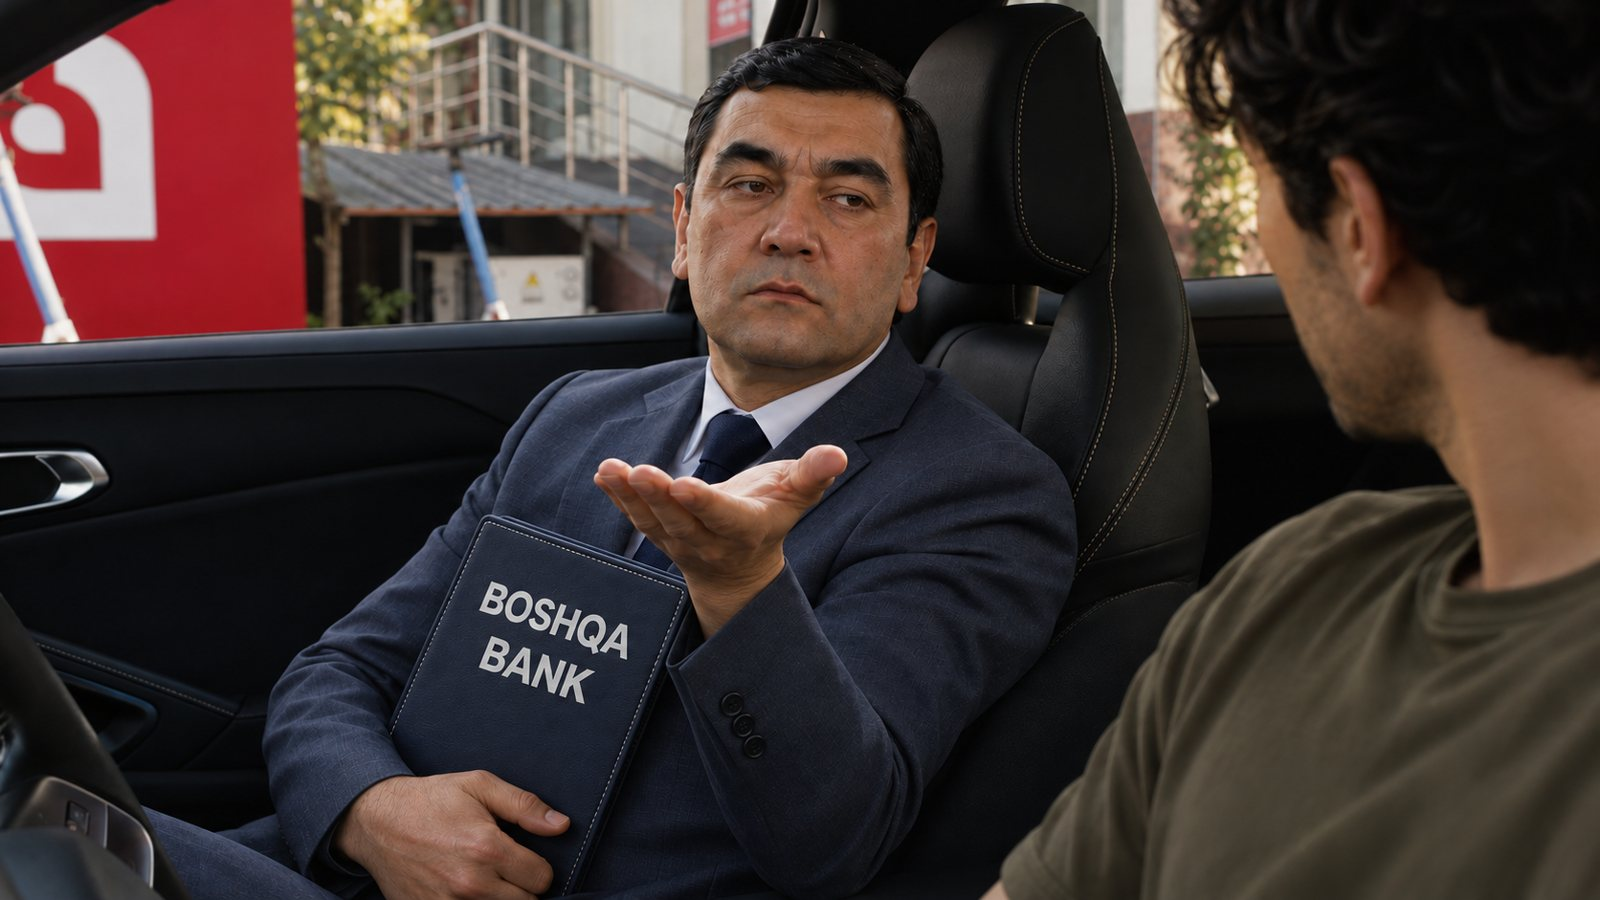
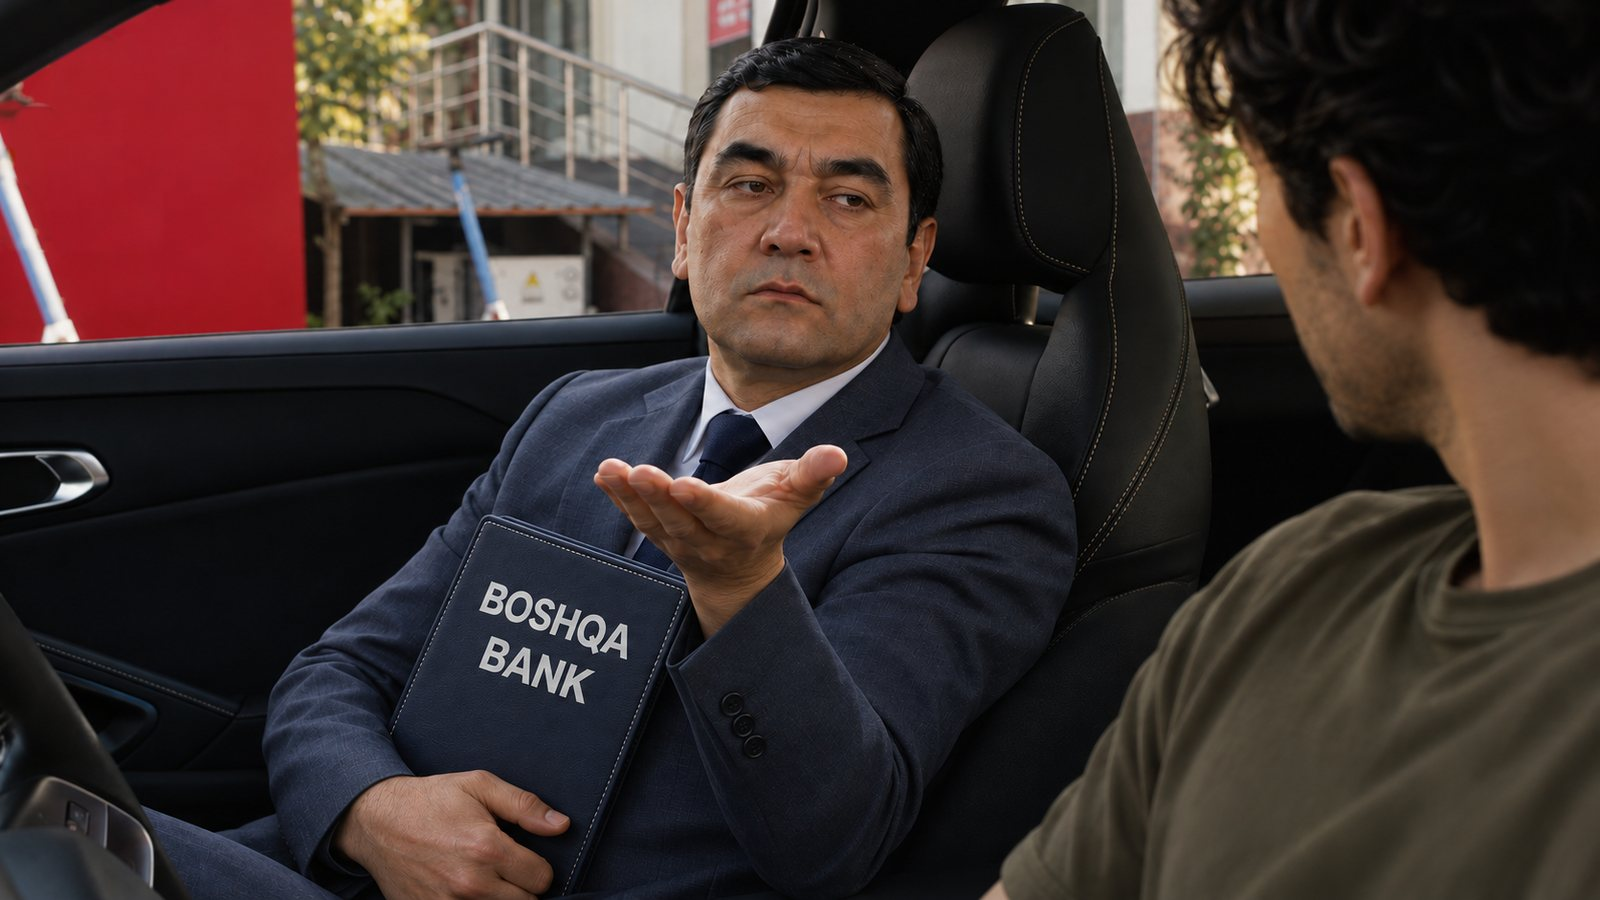
Agrobank: убран логотип с вывески за окном машины (кадр 08)
Заменены assets/r1_08_xira_reverse.jpg (фон титула «Xira») и
assets/r1s_08_xira_reverse_simple.jpg (слайд «Машина · Yana»).
К ссылкам добавлен ?v=2, чтобы браузеры не показывали старую версию.

Claude-Session: https://claude.ai/code/session_01XP5vXhmmUk3Qh1XiU6XY23

Changed region(s): [[0.0, 0.0311, 0.125, 0.28]]

diff --git a/FCB-Agrobank/index.html b/FCB-Agrobank/index.html
@@ -103,7 +103,7 @@ requestAnimationFrame(f)}f();
 
 </section>
 <section id="r1-title" data-transition="push" style="background:#00502A;color:#12211A;font-family:'Agrofont', Verdana, sans-serif;display:flex;flex-direction:column;padding:96px">
-<img src="assets/r1_08_xira_reverse.jpg" alt="" style="position:absolute;left:0;top:0;width:1920px;height:1080px;object-fit:cover"><div style="position:absolute;left:0;top:0;width:1920px;height:1080px;background:linear-gradient(90deg, rgba(0,60,30,0.92) 0%, rgba(0,90,45,0.7) 42%, rgba(0,90,45,0.15) 75%)"></div><img src="assets/grain.png" alt="" style="position:absolute;left:0;top:0;width:1920px;height:1080px;object-fit:cover;mix-blend-mode:overlay;opacity:0.22"><p style="position:absolute;left:96px;top:404px;width:1000px;font-family:'Agrofont Bold', Verdana, sans-serif;font-size:24px;letter-spacing:2px;text-transform:uppercase;color:#CFF5E0">Ролик 1</p><h1 style="position:absolute;left:96px;top:448px;width:1100px;font-family:'Agrofont Expanded', Verdana, sans-serif;font-size:120px;font-weight:700;line-height:1.05;color:#FFFFFF;text-align:left">Xira</h1><p data-build-in="fade" style="position:absolute;left:96px;top:720px;width:760px;font-family:'Agrofont', Verdana, sans-serif;font-size:32px;line-height:1.45;color:#E9F2EE">Рефинансирование ипотеки. Хира требует платёж с утра до вечера, пока герой не скажет «Bo‘ldi!».</p>
+<img src="assets/r1_08_xira_reverse.jpg?v=2" alt="" style="position:absolute;left:0;top:0;width:1920px;height:1080px;object-fit:cover"><div style="position:absolute;left:0;top:0;width:1920px;height:1080px;background:linear-gradient(90deg, rgba(0,60,30,0.92) 0%, rgba(0,90,45,0.7) 42%, rgba(0,90,45,0.15) 75%)"></div><img src="assets/grain.png" alt="" style="position:absolute;left:0;top:0;width:1920px;height:1080px;object-fit:cover;mix-blend-mode:overlay;opacity:0.22"><p style="position:absolute;left:96px;top:404px;width:1000px;font-family:'Agrofont Bold', Verdana, sans-serif;font-size:24px;letter-spacing:2px;text-transform:uppercase;color:#CFF5E0">Ролик 1</p><h1 style="position:absolute;left:96px;top:448px;width:1100px;font-family:'Agrofont Expanded', Verdana, sans-serif;font-size:120px;font-weight:700;line-height:1.05;color:#FFFFFF;text-align:left">Xira</h1><p data-build-in="fade" style="position:absolute;left:96px;top:720px;width:760px;font-family:'Agrofont', Verdana, sans-serif;font-size:32px;line-height:1.45;color:#E9F2EE">Рефинансирование ипотеки. Хира требует платёж с утра до вечера, пока герой не скажет «Bo‘ldi!».</p>
 
 </section>
 <section id="r1-s1" data-transition="fade" style="background:#fbfbf8">
@@ -129,7 +129,7 @@ requestAnimationFrame(f)}f();
 
 </section>
 <section id="r1-s3b" data-transition="fade" style="background:#FBFBF8;color:#12211A;font-family:'Agrofont', Verdana, sans-serif;display:flex;flex-direction:column;padding:96px">
-<p style="position:absolute;left:96px;top:96px;width:1200px;font-family:'Agrofont Bold', Verdana, sans-serif;font-size:24px;letter-spacing:2px;text-transform:uppercase;color:#00803F">Ролик 1 · Xira · Сцена 3</p><h2 style="position:absolute;left:96px;top:136px;width:1500px;font-family:'Agrofont Expanded', Verdana, sans-serif;font-size:52px;font-weight:700;line-height:1.1;color:#12211A;text-align:left">Машина · «Yana»</h2><img data-build-in="fade" src="assets/r1s_08_xira_reverse_simple.jpg" alt="Хира протягивает ладонь, папка Boshqa bank" style="position:absolute;left:96px;top:248px;width:852px;height:479px;object-fit:cover;border-radius:14px;border:1px solid #DDE3DF"><img data-build-in="fade" src="assets/r1s_09_hero_answer_simple.jpg" alt="Герой возмущается" style="position:absolute;left:972px;top:248px;width:852px;height:479px;object-fit:cover;border-radius:14px;border:1px solid #DDE3DF"><p data-build-in="fade" style="position:absolute;left:96px;top:776px;width:760px;font-family:'Agrofont', Verdana, sans-serif;font-size:28px;line-height:1.45;color:#12211A">Хира просит денег. Герой возмущается, но Хире всё равно.</p><p data-build-in="fade" style="position:absolute;left:972px;top:776px;width:852px;font-family:'Agrofont Bold', Verdana, sans-serif;font-size:28px;line-height:1.45;color:#12211A"><span style="color:#00803F">Реплика</span><br>— Yana.<br>— Ertalab berdim-ku!<br><span style="color:#6B7570">(Я же утром отдал!)</span></p>
+<p style="position:absolute;left:96px;top:96px;width:1200px;font-family:'Agrofont Bold', Verdana, sans-serif;font-size:24px;letter-spacing:2px;text-transform:uppercase;color:#00803F">Ролик 1 · Xira · Сцена 3</p><h2 style="position:absolute;left:96px;top:136px;width:1500px;font-family:'Agrofont Expanded', Verdana, sans-serif;font-size:52px;font-weight:700;line-height:1.1;color:#12211A;text-align:left">Машина · «Yana»</h2><img data-build-in="fade" src="assets/r1s_08_xira_reverse_simple.jpg?v=2" alt="Хира протягивает ладонь, папка Boshqa bank" style="position:absolute;left:96px;top:248px;width:852px;height:479px;object-fit:cover;border-radius:14px;border:1px solid #DDE3DF"><img data-build-in="fade" src="assets/r1s_09_hero_answer_simple.jpg" alt="Герой возмущается" style="position:absolute;left:972px;top:248px;width:852px;height:479px;object-fit:cover;border-radius:14px;border:1px solid #DDE3DF"><p data-build-in="fade" style="position:absolute;left:96px;top:776px;width:760px;font-family:'Agrofont', Verdana, sans-serif;font-size:28px;line-height:1.45;color:#12211A">Хира просит денег. Герой возмущается, но Хире всё равно.</p><p data-build-in="fade" style="position:absolute;left:972px;top:776px;width:852px;font-family:'Agrofont Bold', Verdana, sans-serif;font-size:28px;line-height:1.45;color:#12211A"><span style="color:#00803F">Реплика</span><br>— Yana.<br>— Ertalab berdim-ku!<br><span style="color:#6B7570">(Я же утром отдал!)</span></p>
 
 </section>
 <section id="r1-s4" data-transition="fade" style="background:#fbfbf8">
